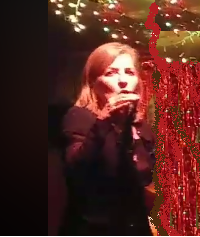
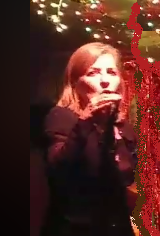
made dena image smaller

diff --git a/index.htm b/index.htm
@@ -1,4 +1,4 @@
-  <head>
+	  <head>
    <link rel="stylesheet" type="text/css" href="assets/style/style.css">
    <link href="https://fonts.googleapis.com/css?family=Ariel|Monoton&display=swap" rel="stylesheet">
    <meta name="viewport" content="width=device-width, initial-scale=1.0">
@@ -107,7 +107,7 @@
 
 <!------------------------John ----------------------------->
   <div class="flex-row">                                                 
-     <div class="text-container">
+     <div class="third-container">
   <p>
              John Allen (drums) is an attorney, and
              (more importantly!) a graduate of the
@@ -141,14 +141,18 @@
    <div class="flex-row">
 
        <div>
-       <img id="player-photo" src="assets/images/Dena.png">
+       <img id="player-photo" src="assets/images/Reynolds.png">
        </div>
 
       
         
             
-      <div class= "third-container">   
-       
+      <div class= "third-container">  
+ 
+        Reynolds Davies (electric & upright bass, banjo) is
+        an attorney, and (more importantly!) an
+        accomplished bass player and banjo player.
+<p>
         Dena Davies (vocals) is a piano and voice teacher
         in Nashville, and (more importantly!) a powerhouse vocalist. She
         and Reynolds are also proud parents of Barton Davies, leader of
@@ -164,16 +168,11 @@
         </audio>
          
         </figure>
-
-      Reynolds Davies (electric & upright bass, banjo) is
-      an attorney, and (more importantly!) an
-      accomplished bass player and banjo player.
-
         </div>
         
  
        <div>
-       <img id="player-photo" src ="assets/images/Reynolds.PNG" >
+       <img id="player-photo" src ="assets/images/Dena.Png" >
        </div>
   
  
@@ -189,7 +188,7 @@
           </div>
        
           <div class = "text-container">
-<p>
+          <p>
           Doug Aitken (piano, organ, guitar, vocals) is a
           licensed psychological counselor, and (more
           importantly!) an exceptional multi-instrumentalist;
@@ -203,7 +202,7 @@
           
            <audio id ="small-player" controls>
            <source src="As It Is In Chicago.mp3" type="audio/mpeg">
-       Your browser does not support the <code>audio</code> element.
+            Your browser does not support the <code>audio</code> element.
            </audio>
          
            </figure>
@@ -225,18 +224,18 @@
        <p text-align:center>
         <figure>
         <figcaption>Dave (guitar)</figcaption>
-     <!--   <div class="center">-->
+    
         <audio id="small-player" controls>
           <source src="JonesIrresistibleClip.mp3" type="audio/mpeg">
             Your browser does not support the
             <code>audio</code> element.
         </audio>
-     <!--   </div>-->
+    
         </figure>
    </div>
        
      <div>
-        <img id="player-photo" src="assets/images/JonesPic01.jpg" style = "float:right; padding-right:10px" >  
+        <img id="player-photo" src="assets/images/JonesPic01.jpg" >  
       </div>    
         
       </div>

diff --git a/assets/style/style.css b/assets/style/style.css
@@ -15,10 +15,11 @@
 
 .text-container {
   font-family: 'Ariel';
-  font-size: 18px;
+  font-size: 20px;
   justify-content:center;
   flex-basis: 47%; 
   flex-grow:2;
+  flex-shrink:2;
   align-content:center;
   padding:10px;
   }
@@ -36,12 +37,13 @@ font-family: 'Ariel';
 
 .third-container {
 font-family: 'Ariel';
-  font-size: 18px;
+  font-size: 20px;
   justify-content:center;
   flex-basis: 33%; 
   flex-grow:2;
+  flex-shrink:2;
   align-content:center;
-  padding:5px;
+  padding:10px;
 }
 
 .video-link {
@@ -70,23 +72,19 @@ padding-bottom:5px;
 
 
 #small-player {
-width:200px;
+width:180px;
 }
 
 #player-photo {
 height:300px;
 width:auto;
-padding:10px;
-}
-
-.center {
-/*  display: block;*/
-  margin-left: auto;
+margin-left: auto;
   margin-right: auto;
-  width: 50%;
+  padding:10px;
 }
-  
 
+
+ 
 
 
 
